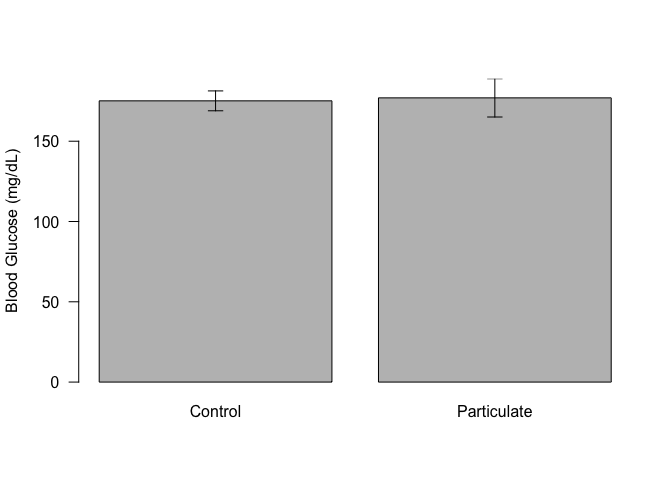
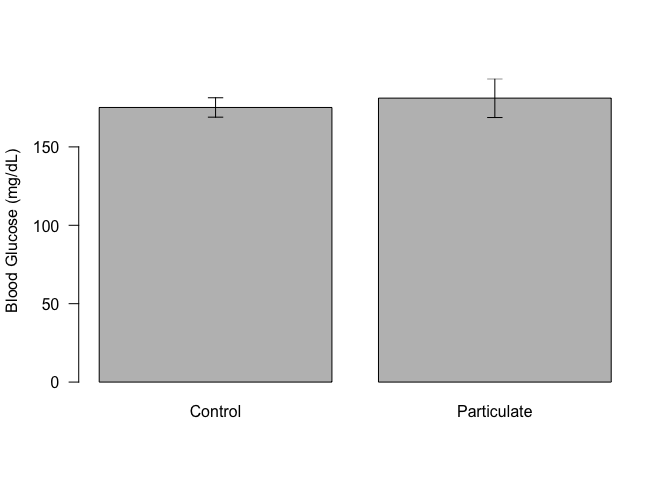
Removed mouse 206 from glucose analysis

diff --git a/scripts/fasting_glucose_analysis.html b/scripts/fasting_glucose_analysis.html
@@ -59,10 +59,10 @@ if (window.hljs && document.readyState && document.readyState === "complete") {
 </div>
 
 
-<p>This only looks at animals treated <em>in utero</em>. These data were most recently updated on Sun Nov 16 09:53:41 2014.</p>
+<p>This only looks at animals treated <em>in utero</em>. These data were most recently updated on Sun Nov 16 12:07:07 2014.</p>
 <pre class="r"><code>filename &lt;- '../data/Blood Glucose - Maternal.csv'
-
 data &lt;- read.csv(filename, row.names='X')
+data &lt;- subset(data, animal.MouseID!='206')
 
 library(plyr)
 summary &lt;- ddply(data, .(Treatment, experiment.feeding_state), summarize,
@@ -78,7 +78,7 @@ levene.result &lt;- leveneTest(Glucose~Treatment, data=subset(data, experiment.f
 <pre class="r"><code>library(xtable)
 print(xtable(summary, caption = &quot;Summary Data, based on treating mice individually.  Triglycerides are in mmoles/mg of tissue&quot;, label=&quot;tab:summary-statistics&quot;), include.rownames=F, type='html')</code></pre>
 <!-- html table generated in R 3.1.1 by xtable 1.7-4 package -->
-<!-- Sun Nov 16 09:53:42 2014 -->
+<!-- Sun Nov 16 12:07:08 2014 -->
 <table border="1">
 <caption align="bottom"> 
 Summary Data, based on treating mice individually. Triglycerides are in mmoles/mg of tissue
@@ -133,21 +133,21 @@ Particulate
 </td> <td> 
 fasted
 </td> <td align="right"> 
-177.00
+181.10
 </td> <td align="right"> 
-39.54
+39.14
 </td> <td align="right"> 
-11.92
+12.38
 </td> <td align="right">  
-11
+10
 </td> <td align="right"> 
-0.90
+0.92
 </td> </tr>
    
 <a name="tab:summary-statistics"></a>
 </table>
 
-<p>According to a Shapiro-Wilk Test, the data fit a normal distribution (p&gt;0.3435928). A Levene’s test suggested that the variance can be presumed to be equal (p=0.1370976). Based on this, a Student’s T-test has a p-value of 0.8856322.</p>
+<p>According to a Shapiro-Wilk Test, the data fit a normal distribution (p&gt;0.3435928). A Levene’s test suggested that the variance can be presumed to be equal (p=0.1963716). Based on this, a Student’s T-test has a p-value of 0.6479714.</p>
 <pre class="r"><code>ymax &lt;- max(summary$mean) + max(summary$se)
 
 plot &lt;- with(subset(summary, experiment.feeding_state == 'fasted'), plot &lt;- barplot(mean,
@@ -164,7 +164,7 @@ superpose.eb &lt;- function (x, y, ebl, ebu = ebl, length = 0.08, ...)
 superpose.eb(plot, subset(summary, 
             experiment.feeding_state == 'fasted')$mean, 
              subset(summary, experiment.feeding_state == 'fasted')$se)</code></pre>
[2 lines of base64/hex data omitted]
 <div id="session-information" class="section level2">
 <h2>Session Information</h2>
 <pre class="r"><code>sessionInfo()</code></pre>

diff --git a/scripts/fasting_glucose_analysis.md b/scripts/fasting_glucose_analysis.md
@@ -2,13 +2,13 @@
 Alyse Ragauskas, Matt Peloquin, Jyothi Parvathareddy, Sridhar Jaligama, Stephania Cormier and Dave Bridges  
 November 13, 2014  
 
-This only looks at animals treated *in utero*.  These data were most recently updated on Sun Nov 16 09:53:41 2014.
+This only looks at animals treated *in utero*.  These data were most recently updated on Sun Nov 16 12:07:07 2014.
 
 
 ```r
 filename <- '../data/Blood Glucose - Maternal.csv'
-
 data <- read.csv(filename, row.names='X')
+data <- subset(data, animal.MouseID!='206')
 
 library(plyr)
 summary <- ddply(data, .(Treatment, experiment.feeding_state), summarize,
@@ -32,17 +32,17 @@ print(xtable(summary, caption = "Summary Data, based on treating mice individual
 ```
 
 <!-- html table generated in R 3.1.1 by xtable 1.7-4 package -->
-<!-- Sun Nov 16 09:53:42 2014 -->
+<!-- Sun Nov 16 12:07:08 2014 -->
 <table border=1>
 <caption align="bottom"> Summary Data, based on treating mice individually.  Triglycerides are in mmoles/mg of tissue </caption>
 <tr> <th> Treatment </th> <th> experiment.feeding_state </th> <th> mean </th> <th> sd </th> <th> se </th> <th> n </th> <th> shapiro </th>  </tr>
   <tr> <td> Control </td> <td> fasted </td> <td align="right"> 175.14 </td> <td align="right"> 23.97 </td> <td align="right"> 6.19 </td> <td align="right">  15 </td> <td align="right"> 0.69 </td> </tr>
   <tr> <td> Control </td> <td> fed </td> <td align="right"> 154.71 </td> <td align="right"> 23.20 </td> <td align="right"> 6.20 </td> <td align="right">  14 </td> <td align="right"> 0.34 </td> </tr>
-  <tr> <td> Particulate </td> <td> fasted </td> <td align="right"> 177.00 </td> <td align="right"> 39.54 </td> <td align="right"> 11.92 </td> <td align="right">  11 </td> <td align="right"> 0.90 </td> </tr>
+  <tr> <td> Particulate </td> <td> fasted </td> <td align="right"> 181.10 </td> <td align="right"> 39.14 </td> <td align="right"> 12.38 </td> <td align="right">  10 </td> <td align="right"> 0.92 </td> </tr>
    <a name=tab:summary-statistics></a>
 </table>
 
-According to a Shapiro-Wilk Test, the data fit a normal distribution (p>0.3435928).  A Levene's test suggested that the variance can be presumed to be equal (p=0.1370976).  Based on this, a Student's T-test has a p-value of 0.8856322.
+According to a Shapiro-Wilk Test, the data fit a normal distribution (p>0.3435928).  A Levene's test suggested that the variance can be presumed to be equal (p=0.1963716).  Based on this, a Student's T-test has a p-value of 0.6479714.
 
 
 ```r
